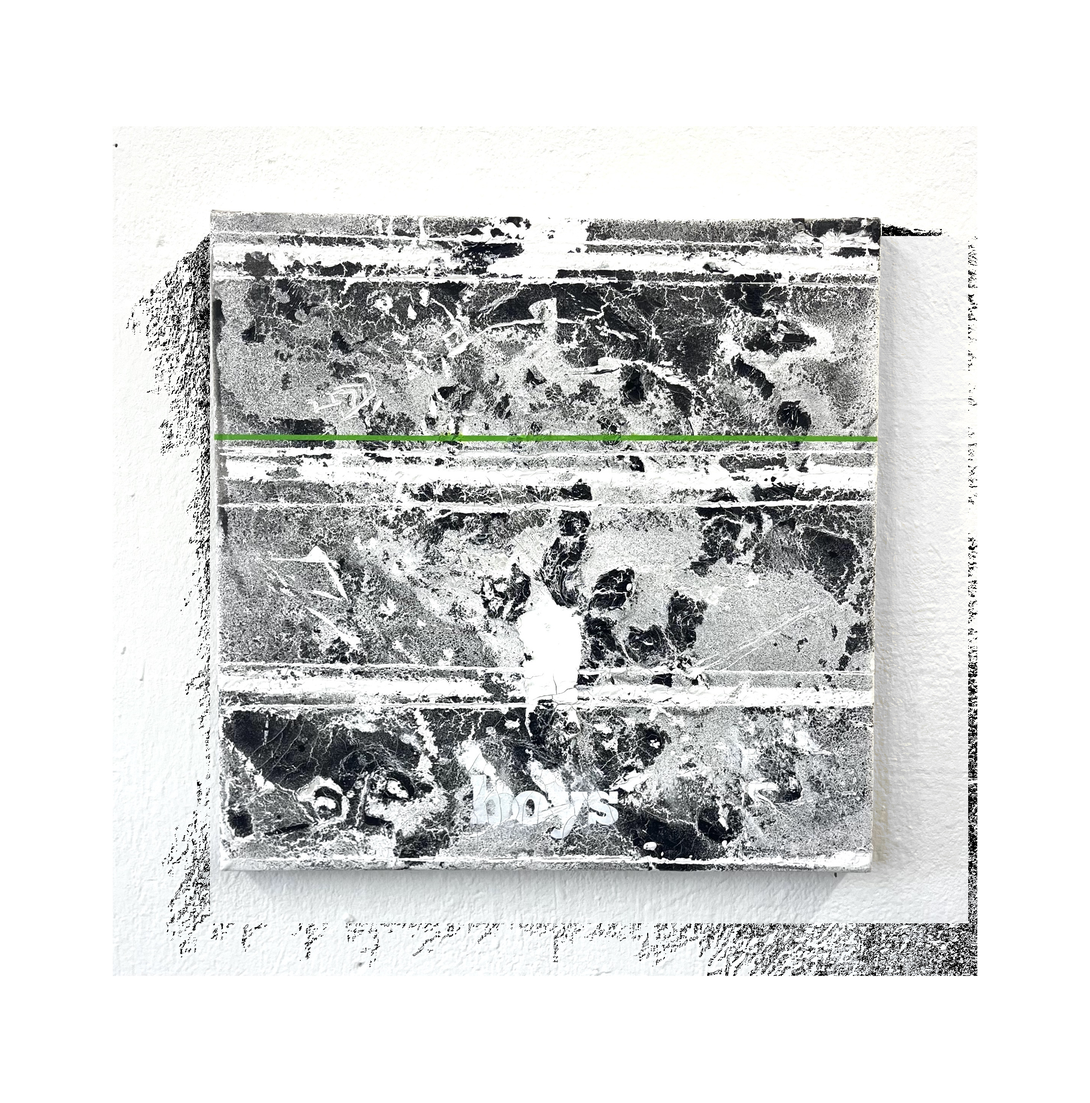
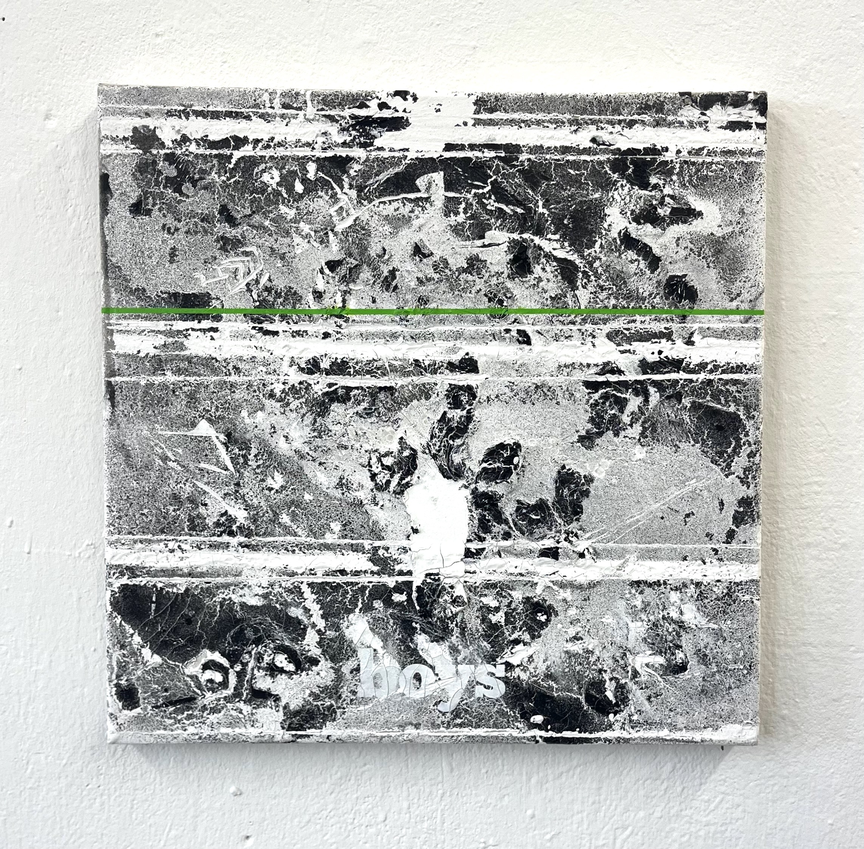
neu

diff --git a/contact_basti.html b/contact_basti.html
@@ -28,7 +28,7 @@
     </p>
 
     <p>
-        Studium an der Hochschule für Bildende Künste Hamburg<br>
+        Student at Hochschule für Bildende Künste Hamburg<br>
         Fachklasse Kerstin Brätsch<br>
         Lerchenfeld 2, 22081 Hamburg
         
